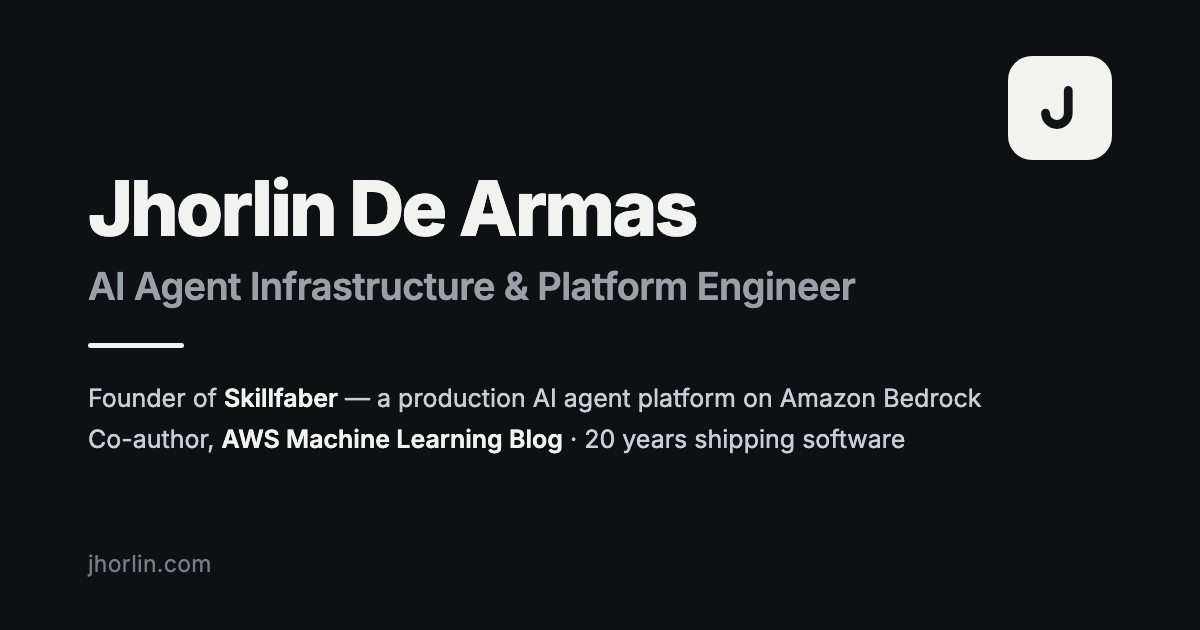
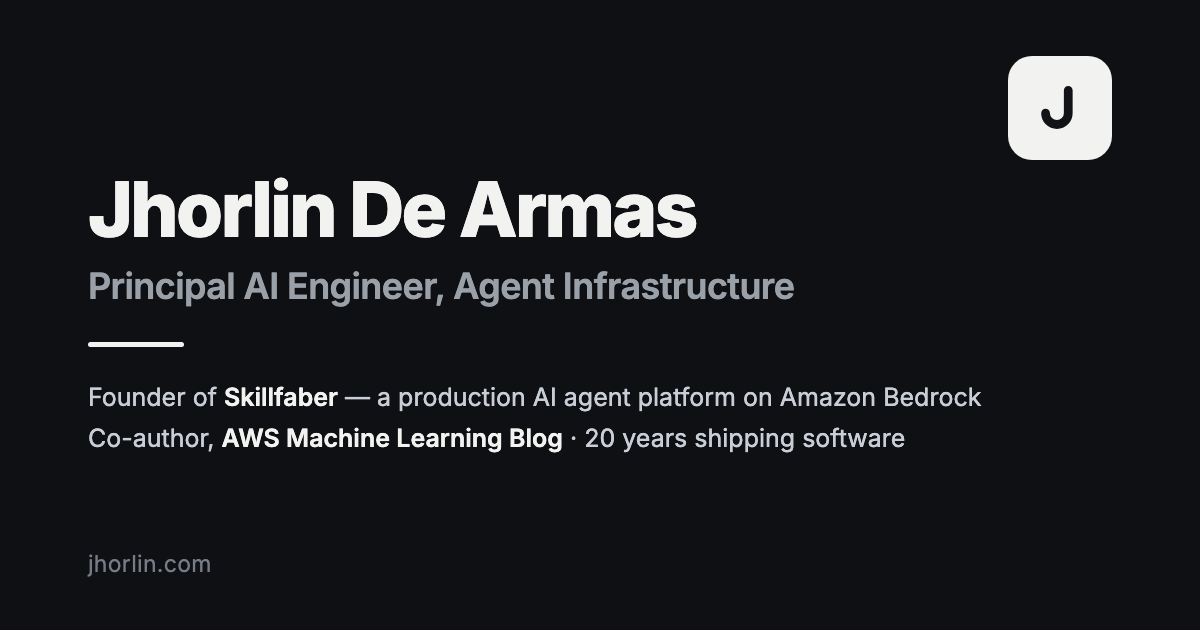
content: headline -> 'Principal AI Engineer, Agent Infrastructure'
The previous headline was domain-correct but level-blind, which is the one
thing it could not afford: Staff+ sourcing Booleans commonly read
NOT ("Manager" OR "Director"), and the Experience section carries
'Director of Software Development' followed by 'Architect II' — a mid-ladder
string. Nothing asserted senior-IC standing, and untiered AI-infrastructure
bands sit at $107-163k.

Engineer over Architect: across 5,637 live postings pulled from raw ATS
endpoints, 'Applied AI Architect' appears at only two employers and only in
their field orgs; no lab titles core agent-infrastructure work 'Architect.'
The credential is not lost — Architect II remains in Experience.

Also refreshed the page title, Open Graph/Twitter tags and the preview card,
which had the old headline baked in.

Claude-Session: https://claude.ai/code/session_019QrgobAu2Tu1gSGZd5oE5P

diff --git a/index.html b/index.html
@@ -3,7 +3,7 @@
   <head>
     <meta charset="UTF-8" />
     <meta name="viewport" content="width=device-width, initial-scale=1.0" />
-    <title>Jhorlin De Armas — AI Agent Infrastructure &amp; Platform Engineer</title>
+    <title>Jhorlin De Armas — Principal AI Engineer, Agent Infrastructure</title>
     <meta
       name="description"
       content="I build agent harnesses: the runtime around the model — tool-use loops, streaming, capability detection, metering, and evals — on AWS. 20 years shipping software. Ask my AI assistant anything."
@@ -25,14 +25,14 @@
     <meta property="og:type" content="website" />
     <meta property="og:site_name" content="Jhorlin De Armas" />
     <meta property="og:url" content="https://jhorlin.com/" />
-    <meta property="og:title" content="Jhorlin De Armas — AI Agent Infrastructure &amp; Platform Engineer" />
+    <meta property="og:title" content="Jhorlin De Armas — Principal AI Engineer, Agent Infrastructure" />
     <meta property="og:description" content="Founder of Skillfaber, a production AI agent platform on Amazon Bedrock. Co-author of the AWS Machine Learning Blog post on PDIQ. 20 years shipping software." />
     <meta property="og:image" content="https://jhorlin.com/og.png" />
     <meta property="og:image:width" content="1200" />
     <meta property="og:image:height" content="630" />
-    <meta property="og:image:alt" content="Jhorlin De Armas — AI Agent Infrastructure and Platform Engineer" />
+    <meta property="og:image:alt" content="Jhorlin De Armas — Principal AI Engineer, Agent Infrastructure" />
     <meta name="twitter:card" content="summary_large_image" />
-    <meta name="twitter:title" content="Jhorlin De Armas — AI Agent Infrastructure &amp; Platform Engineer" />
+    <meta name="twitter:title" content="Jhorlin De Armas — Principal AI Engineer, Agent Infrastructure" />
     <meta name="twitter:description" content="Founder of Skillfaber, a production AI agent platform on Amazon Bedrock. Co-author of the AWS Machine Learning Blog post on PDIQ. 20 years shipping software." />
     <meta name="twitter:image" content="https://jhorlin.com/og.png" />
     <link rel="canonical" href="https://jhorlin.com/" />

diff --git a/src/content/resume.ts b/src/content/resume.ts
@@ -3,7 +3,7 @@ import { resumeSchema, type Resume } from "./schema";
 const data: Resume = {
   profile: {
     name: "Jhorlin De Armas",
-    headline: "AI Agent Infrastructure & Platform Engineer",
+    headline: "Principal AI Engineer, Agent Infrastructure",
     location: "Orlando, FL · Remote",
     email: "jhorlin@gmail.com",
     links: [
